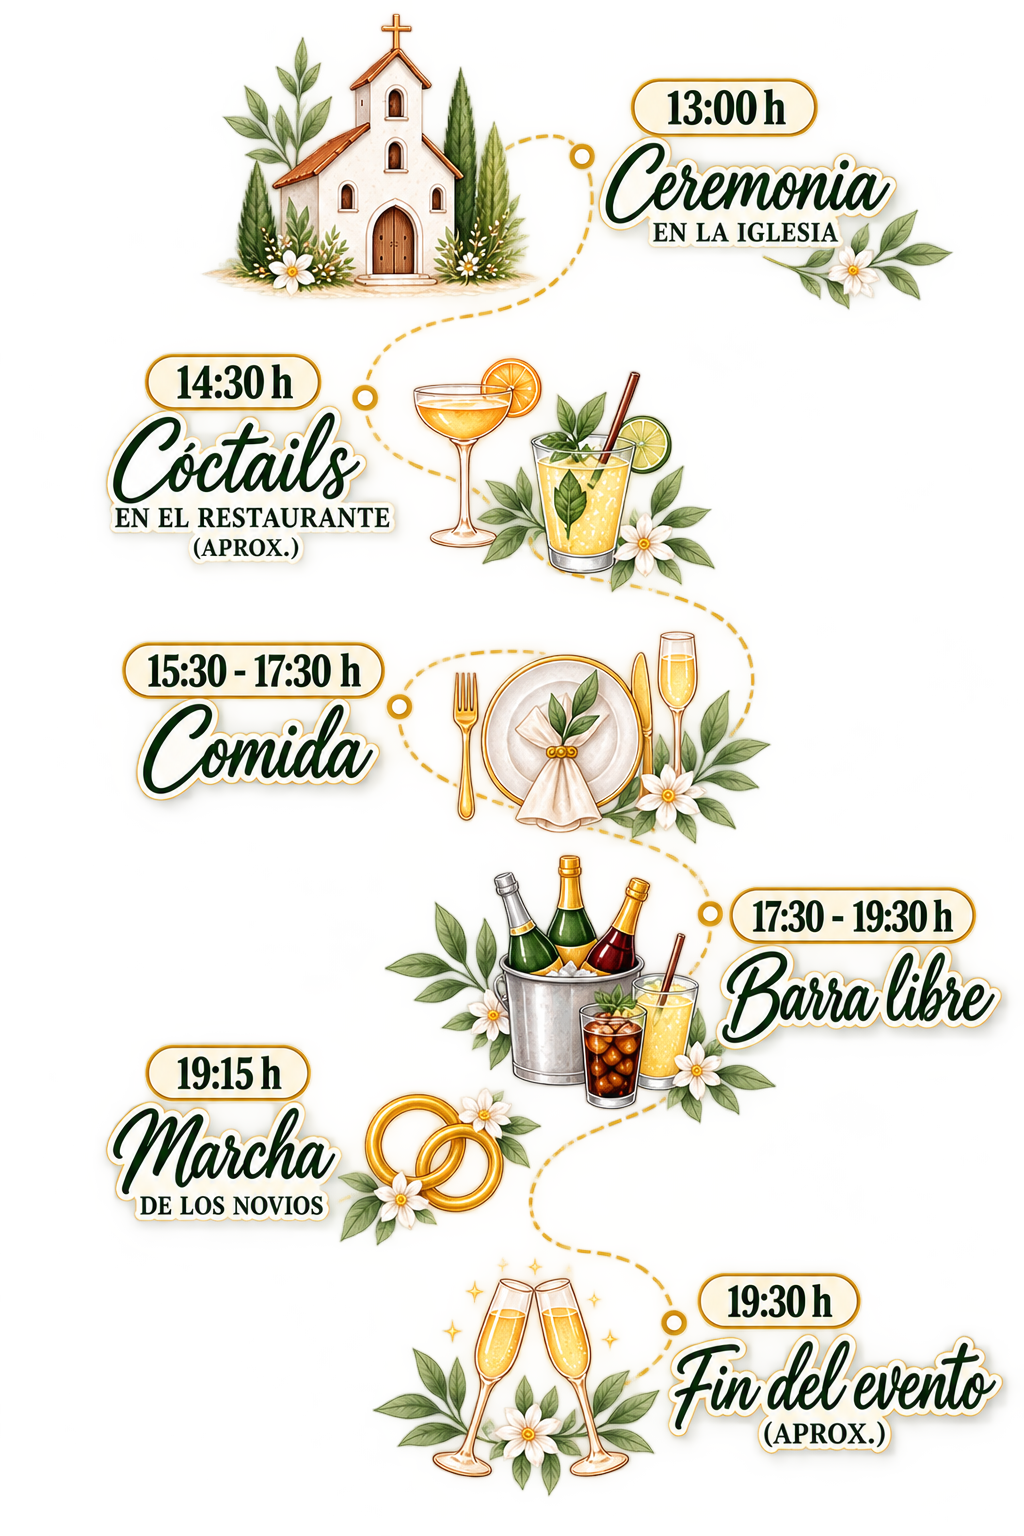
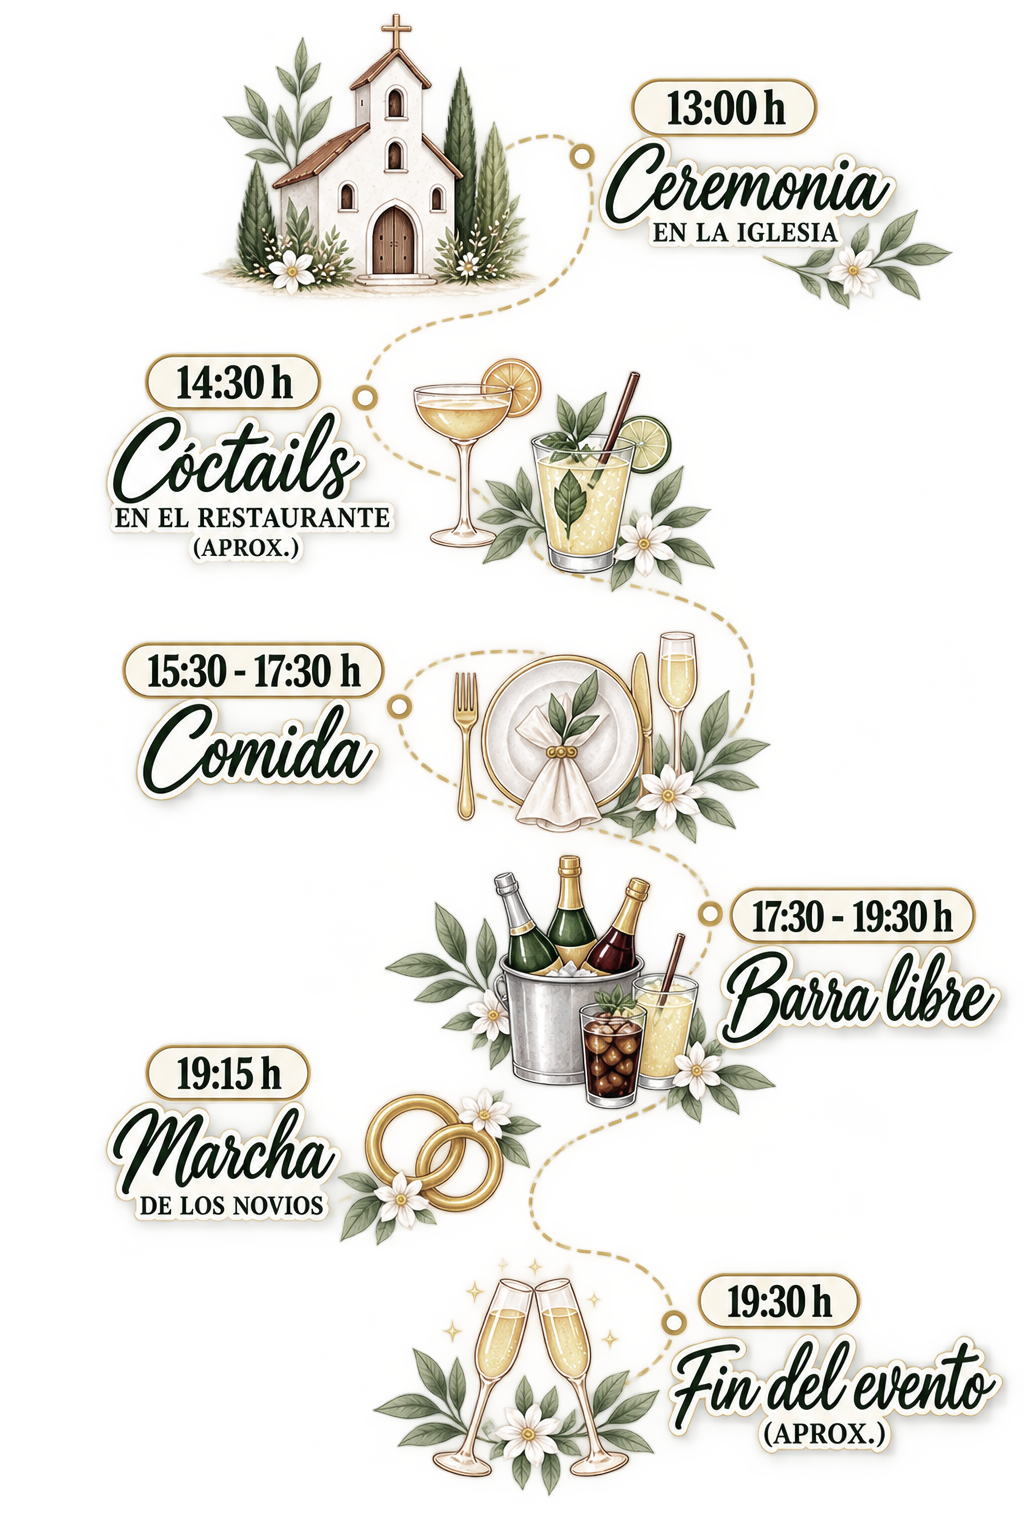
Marco de plantas amazónicas en la pantalla intermedia y ajustes del sendero
Añade la ilustración de marco vegetal como fondo del mensaje de
bienvenida, con un halo blanco detrás del texto para mantener la
legibilidad. Reduce la saturación de la imagen del sendero.

diff --git a/styles.css b/styles.css
@@ -39,7 +39,7 @@ html.intro-done main {
   position: fixed;
   inset: 0;
   z-index: 900;
-  background: #ffffff;
+  background: #ffffff url("assets/marco.png") center center / cover no-repeat;
   display: flex;
   align-items: center;
   justify-content: center;
@@ -63,6 +63,21 @@ html.intro-done main {
 .welcome-content {
   max-width: 560px;
   text-align: center;
+  position: relative;
+  z-index: 1;
+}
+
+.welcome-content::before {
+  content: "";
+  position: absolute;
+  top: 50%;
+  left: 50%;
+  width: 140%;
+  height: 140%;
+  transform: translate(-50%, -50%);
+  background: radial-gradient(ellipse at center, rgba(255,255,255,0.9) 0%, rgba(255,255,255,0.65) 55%, rgba(255,255,255,0) 80%);
+  z-index: -1;
+  pointer-events: none;
 }
 
 .welcome-p {

diff --git a/app.html b/app.html
@@ -91,7 +91,7 @@
       <p class="subtitle reveal d5">Queremos que formes parte<br>de nuestro día</p>
 
       <div class="itinerary-path reveal d6">
-        <img src="assets/sendero.png?v=5" alt="" class="itinerary-img">
+        <img src="assets/sendero.png?v=6" alt="" class="itinerary-img">
       </div>
 
       <p class="message reveal d7">Será un día lleno de amor, risas y momentos<br>que recordaremos para siempre.</p>
